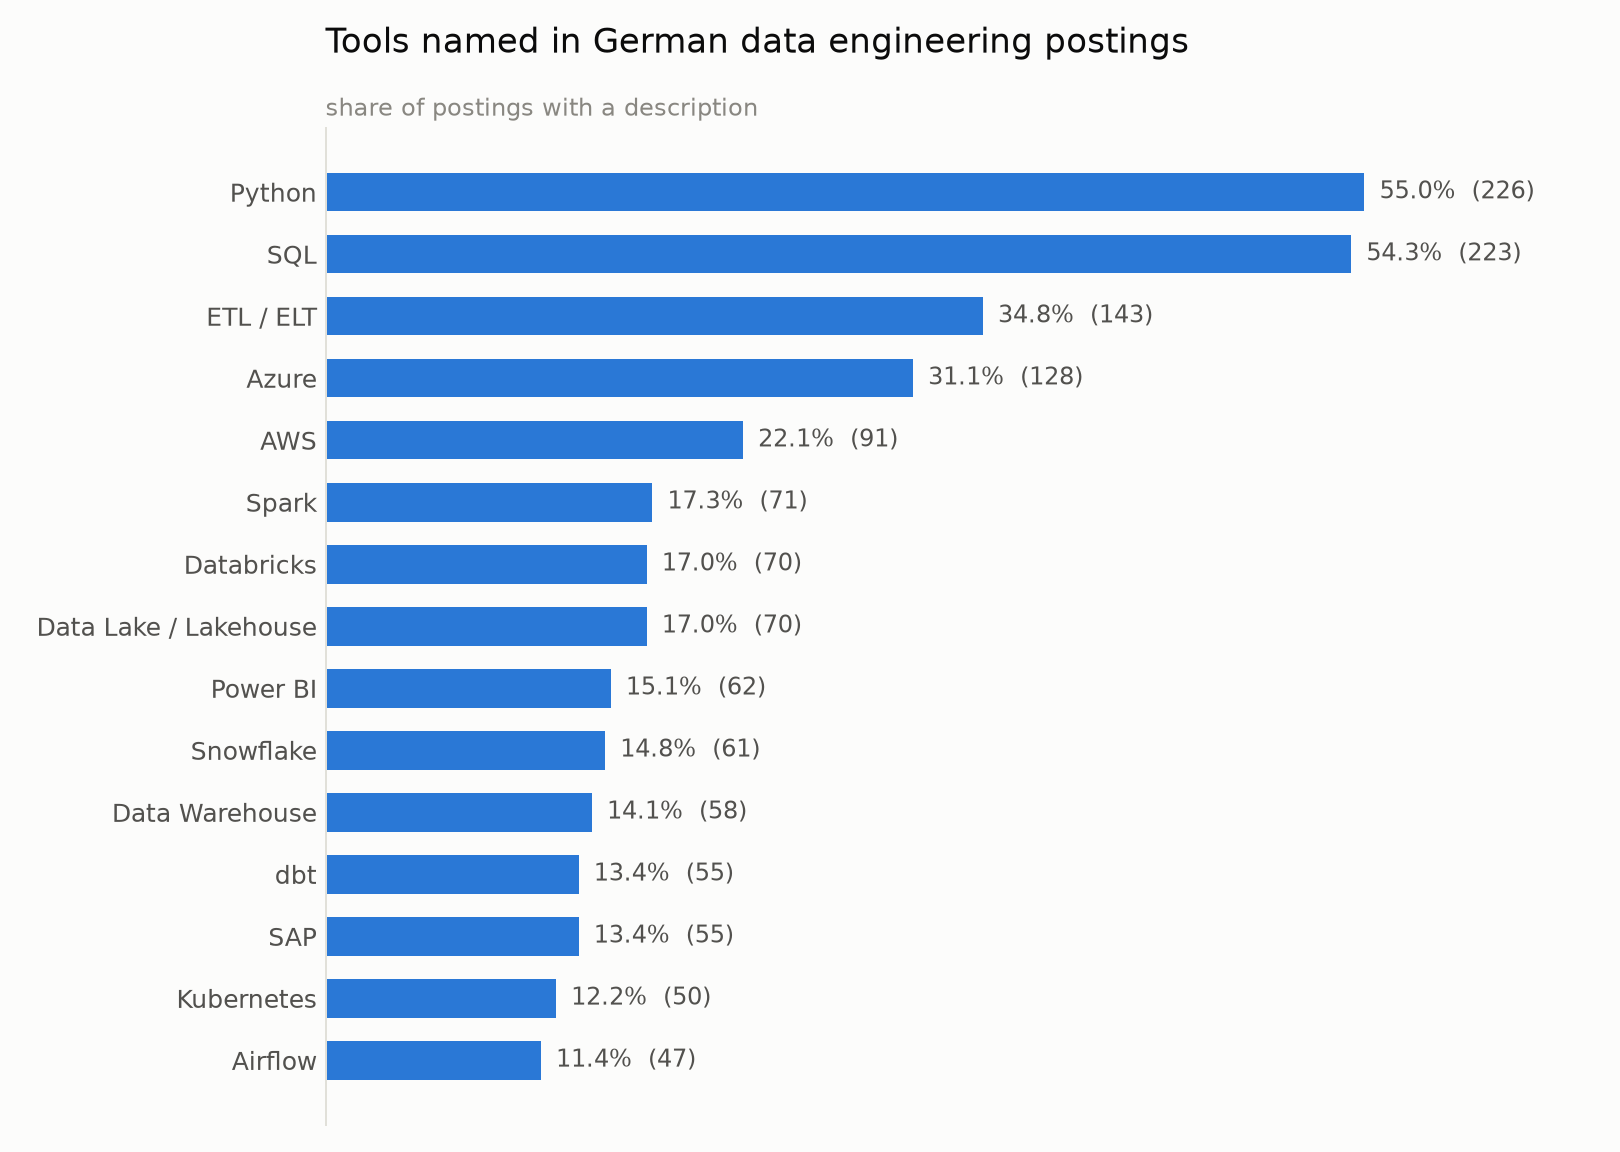
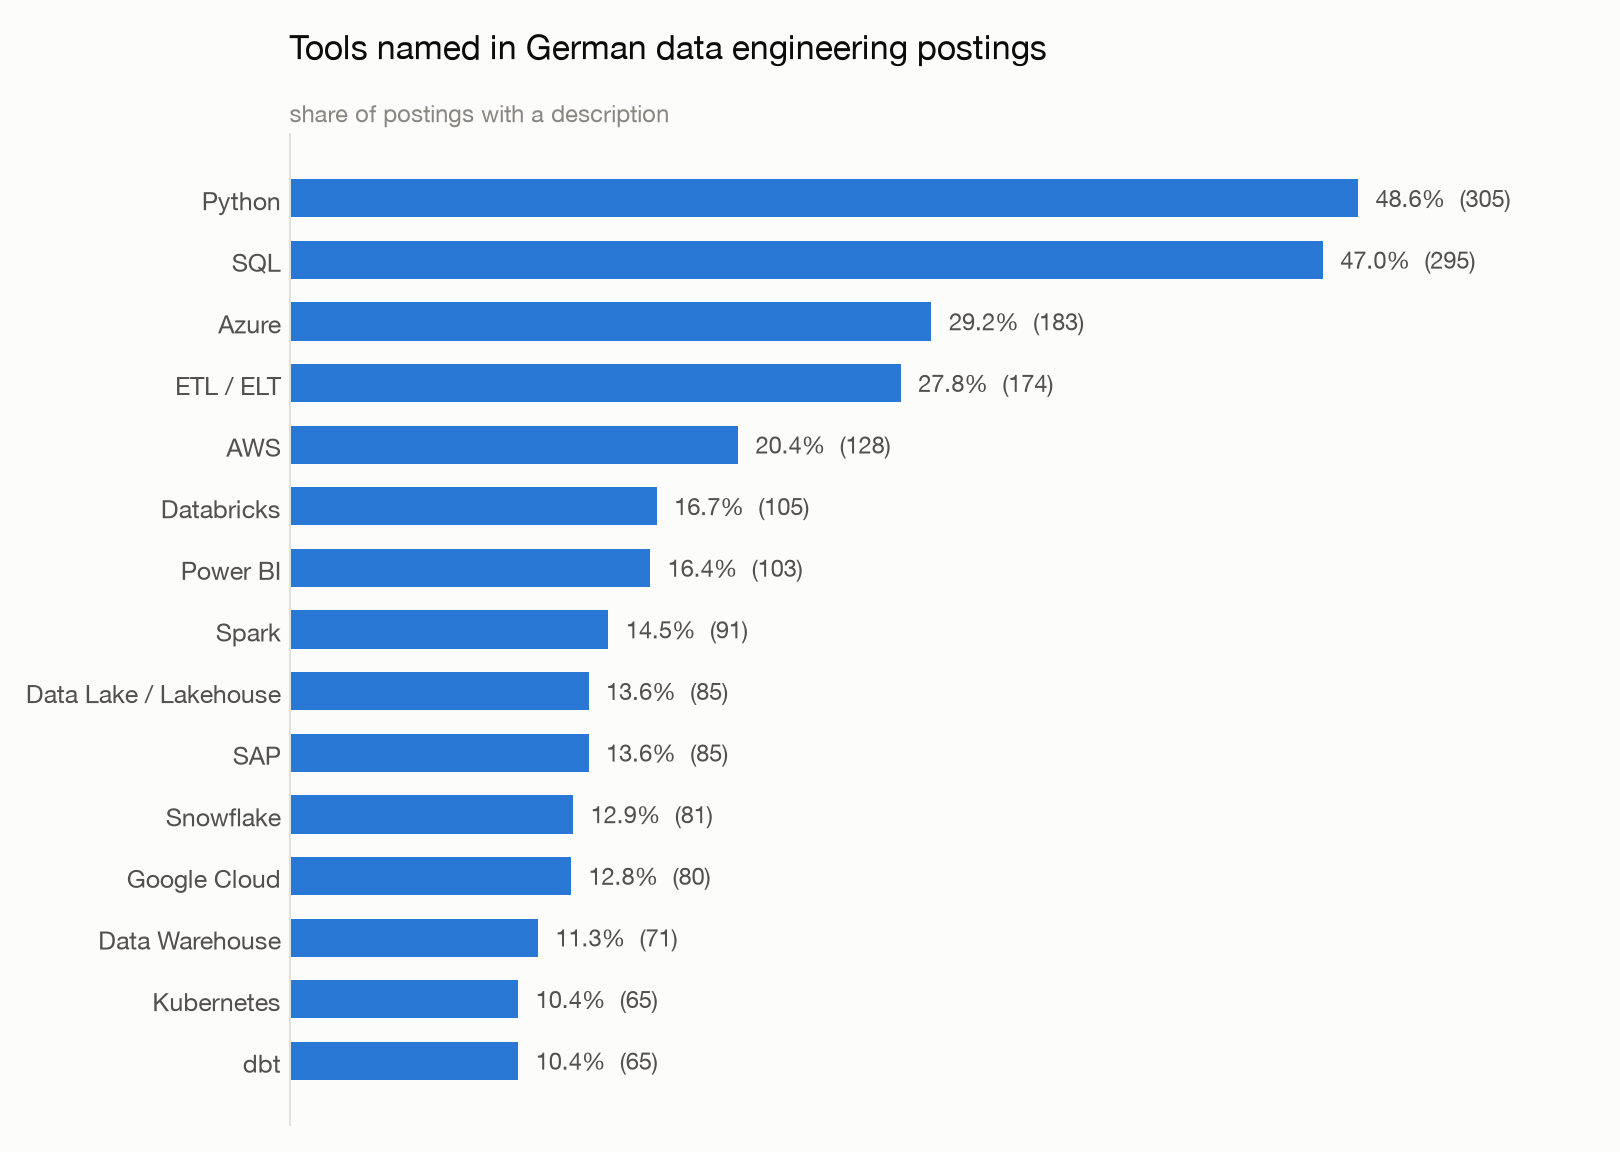
Generate the README's figures from the marts
The README's numbers were hand-typed while the charts beside them were
regenerated daily. They disagreed within a day of the schedule going
live: the prose said Python 49.3% while the image directly above it,
rebuilt that morning, showed 55.0%.

The split this enforces is numbers generated, meaning hand-written.
Everything between the FINDINGS markers comes from the marts. Everything
outside them is prose, now phrased without hard figures -- 'Azure leads
and Google Cloud trails both others' rather than two percentages -- so
it stays true as the market moves. Claims about ordering are the
exception and still need an occasional human look; that is noted in the
script rather than pretended away.

This also settles which dataset is canonical. A laptop run has a larger
sample because it accumulates run dates, but nobody else can reproduce
it. The scheduled run publishes, and the README now says what that
actually measures: postings currently advertised, sampled each morning,
one day per run.

Dropped the top-five tools table: it sat directly above a chart showing
fifteen tools with the same percentages, and the chart is the better of
the two. The generated block now carries what a chart cannot -- sample
sizes, the cloud ratio, the language split.

Also gitignores the desktop app's output folder, which had started
dropping unrelated files into the repository.

Changed region(s): [[0.0, 0.0938, 0.9568, 0.9375], [0.1852, 0.0312, 0.7407, 0.0625]]

diff --git a/analysis/update_readme.py b/analysis/update_readme.py
@@ -1,0 +1,133 @@
+"""Regenerate the README's figures from the marts.
+
+The README is the deliverable, and its numbers were hand-typed while the
+charts beside them were regenerated daily. They disagreed within a day.
+
+The split this enforces: **numbers are generated, meaning is hand-written.**
+Everything between the FINDINGS markers is produced here from the marts.
+Everything outside them is prose a person wrote, and it is deliberately
+phrased without hard figures so it cannot rot the same way. Claims about
+ordering ("Power BI ranks above Spark") are the exception and do need an
+occasional human look -- they are structural rather than numeric, but they
+are not automatically true forever.
+
+Usage:
+    python analysis/update_readme.py
+"""
+
+from __future__ import annotations
+
+import os
+import sys
+from datetime import date
+from pathlib import Path
+
+import psycopg
+
+sys.path.insert(0, str(Path(__file__).resolve().parents[1] / "ingest"))
+from common import log  # noqa: E402
+
+README = Path(__file__).resolve().parents[1] / "README.md"
+START = "<!-- FINDINGS:START -->"
+END = "<!-- FINDINGS:END -->"
+
+CLOUDS = ["azure", "aws", "gcp"]
+
+
+def connect() -> psycopg.Connection:
+    return psycopg.connect(
+        host=os.getenv("PGHOST", "localhost"),
+        port=os.getenv("PGPORT", "5433"),
+        dbname=os.getenv("PGDATABASE", "jobs"),
+        user=os.getenv("PGUSER", "jobs"),
+        password=os.getenv("PGPASSWORD", "jobs"),
+    )
+
+
+def build_block(cur) -> str:
+    cur.execute("""
+        select population, postings, pct_requires_german,
+               pct_english_without_german, requires_german,
+               english_without_german
+        from analytics_marts.mart_language_requirement
+        where population = 'ALL'
+    """)
+    row = cur.fetchone()
+    if row is None:
+        raise SystemExit("mart_language_requirement has no ALL row")
+    _, with_text, pct_german, pct_english, n_german, n_english = row
+
+    cur.execute("select count(*) from analytics_intermediate.int_postings")
+    total_postings = cur.fetchone()[0]
+
+    cur.execute(
+        """
+        select skill_key, display_name, postings, pct_of_postings
+        from analytics_marts.mart_skill_frequency
+        where skill_key = any(%s)
+        order by postings desc
+        """,
+        (CLOUDS,),
+    )
+    clouds = cur.fetchall()
+
+    neither = with_text - n_german - n_english
+
+    lines = [
+        START,
+        "",
+        f"*Generated from the latest pipeline run "
+        f"({date.today().isoformat()}); these figures change when it does.*",
+        "",
+        f"**{total_postings:,} postings** after scope filtering, location "
+        f"validation and deduplication; **{with_text:,}** of them carry a "
+        "description long enough to read requirements from. Every percentage "
+        f"on this page is a share of those {with_text:,}.",
+        "",
+        "### Cloud platforms",
+        "",
+        "| | share of postings |",
+        "| --- | --- |",
+    ]
+    for _, name, _, pct in clouds:
+        lines.append(f"| {name} | {pct}% |")
+
+    if len(clouds) >= 2:
+        lead, second = clouds[0], clouds[1]
+        ratio = float(lead[3]) / float(second[3]) if float(second[3]) else 0
+        lines += [
+            "",
+            f"{lead[1]} appears **{ratio:.1f}×** as often as {second[1]}.",
+        ]
+
+    lines += [
+        "",
+        "### Language requirement",
+        "",
+        f"| requires German | mentions English, no German requirement | "
+        f"neither stated |",
+        "| --- | --- | --- |",
+        f"| **{pct_german}%** | **{pct_english}%** | "
+        f"**{round(100.0 * neither / with_text, 1)}%** |",
+        "",
+        END,
+    ]
+    return "\n".join(lines)
+
+
+def main() -> None:
+    text = README.read_text(encoding="utf-8")
+    if START not in text or END not in text:
+        raise SystemExit(f"README is missing the {START} / {END} markers")
+
+    with connect() as conn, conn.cursor() as cur:
+        block = build_block(cur)
+
+    before = text[: text.index(START)]
+    after = text[text.index(END) + len(END) :]
+    README.write_text(before + block + after, encoding="utf-8")
+    log.info("README figures updated")
+
+
+if __name__ == "__main__":
+    main()

diff --git a/README.md b/README.md
@@ -6,39 +6,55 @@ A data pipeline that answers a question I actually needed answered:
 Not opinion, not a listicle — postings pulled from Germany's official federal
 job database, parsed, and counted.
 
-> Status: end-to-end and running. First findings below; the numbers are a
-> single snapshot and the open questions are listed with them.
+> Runs itself every morning. The figures below are regenerated by that run,
+> so the prose and the charts always come from the same database.
 
 ## Findings
 
-633 postings after scope filtering, location validation and deduplication,
-627 of them carrying a description long enough to read requirements from.
-Numbers below are a snapshot — see [Caveats](#caveats).
+What this measures: postings currently advertised for data engineering roles
+in Germany, sampled by a scheduled run every morning. The figures move as the
+market does, and the daily snapshots under `data/snapshots/` record each run,
+so any number here can be traced back to the run that produced it.
+
+<!-- FINDINGS:START -->
+
+*Generated from the latest pipeline run (2026-09-12); these figures change when it does.*
+
+**633 postings** after scope filtering, location validation and deduplication; **627** of them carry a description long enough to read requirements from. Every percentage on this page is a share of those 627.
+
+### Cloud platforms
+
+| | share of postings |
+| --- | --- |
+| Azure | 29.2% |
+| AWS | 20.4% |
+| Google Cloud | 12.8% |
+
+Azure appears **1.4×** as often as AWS.
+
+### Language requirement
+
+| requires German | mentions English, no German requirement | neither stated |
+| --- | --- | --- |
+| **40.4%** | **31.3%** | **28.4%** |
+
+<!-- FINDINGS:END -->
 
 ### Which tools the market asks for
 
 ![Tools named in German data engineering postings](analysis/charts/skill_frequency.png)
 
-Python (49.3%) and SQL (47.5%) are the floor. The cloud split is the part worth
-reading closely:
+Python and SQL are the floor, which is unsurprising. The cloud split is not:
+Azure leads and Google Cloud trails both others, consistent with DACH
+enterprises being Microsoft shops before they are cloud shops. The ratio
+between the clouds has held across samples of very different size, while the
+absolute percentages moved — so read the ratio as the finding.
 
-| | share of postings |
-| --- | --- |
-| Azure | **28.8%** |
-| AWS | 20.2% |
-| Google Cloud | 13.6% |
-
-Azure leads AWS by roughly **1.4×**. That ratio is the finding, not the
-absolute percentages: an earlier run over a third of this sample produced
-32.4% / 22.0% / 12.8% — different numbers, the same 1.4× gap. Databricks was
-similarly stable across both runs (16.7% then 16.4%).
-
-Two results look distinctly German. **SAP appears in 12.8%** of postings, and
-**Power BI in 16.3%** — ranking above Spark, dbt and Airflow. A US-based
-dataset would not produce that shape. It suggests a large share of what
-Germany labels "data engineering" is Microsoft-stack BI work sitting close to
-SAP systems, which is a different job from the one the title implies
-elsewhere.
+Two results look distinctly German. **SAP** sits in the top fifteen, and
+**Power BI** ranks above Spark, dbt and Airflow. A US-based dataset would not
+produce that shape. It suggests a large share of what Germany labels "data
+engineering" is Microsoft-stack BI work sitting close to SAP systems, which is
+a different job from the one the title implies elsewhere.
 
 Read the percentages as a share of all postings, not as market share between
 clouds: most postings name no cloud at all, so among those that do, Azure's
@@ -48,36 +64,28 @@ lead is wider than the table suggests.
 
 ![How much of the market is gated on German](analysis/charts/language_requirement.png)
 
-**40%** state an explicit German-language requirement. **31%** mention English
-without stating one. The remaining **28%** say nothing about language either
-way — which is not evidence of either, and is shown separately rather than
-folded into the friendlier number.
-
-The federal figure on its own is 41.0%. The second source is too small after
-location validation to report separately, and the mart suppresses per-source
-rows below thirty postings for that reason.
+The third slice matters as much as the first two. A posting that says nothing
+about language is not evidence of either answer, and counting it as
+English-friendly would overstate how open the market is.
 
 ### Caveats
 
 - **The German figure is a floor.** Only explicit competency phrases are
   counted. A posting written in German that states no requirement but expects
   German is invisible to this measure, and there are many.
-- **Percentages moved by 3–7 points between runs.** An earlier, smaller sample
-  was not a random subset — it was the first *n* postings in search order,
-  which over-weighted the most tool-dense search term. Directions held;
-  magnitudes did not. Treat single-point percentages as approximate.
-- **Deduplication turned out to be a minor effect**, and it was audited rather
-  than assumed: `analysis/dedup_audit.sql` splits the funnel. The role filter
-  removes 1,596 rows; deduplication merges 32. The large reduction is the
-  scope filter doing its job, since the API's search is fuzzy and returns
-  loosely related postings.
+- **One day per run.** A scheduled run builds its database from scratch, so
+  each snapshot is that morning's postings rather than an accumulating
+  history. The series across `data/snapshots/` is where trends will live.
+- **Sampling is random but partial.** Descriptions are fetched for a capped
+  number of postings per run, shuffled first so the cap is a throttle rather
+  than a filter. An earlier version truncated an ordered list and skewed every
+  percentage upward; see the commit history.
+- **Deduplication is a minor effect, and was audited rather than assumed.**
+  `analysis/dedup_audit.sql` splits the funnel: the role filter removes far
+  more rows than deduplication merges.
 - **The second source is DACH/EU-wide, not German**, and states no country.
-  Across its full feed, 224 postings resolve as foreign, 213 as German and 157
-  as unknown. Locations are validated against German place names taken from
-  the federal database itself, and only verified-German rows are kept — twelve
-  of them. Everything here is the German market by construction, not by
-  assumption.
-- **One snapshot.** Two run dates are now stored, which is not yet a trend.
+  Locations are validated against German place names taken from the federal
+  database itself, and only verified-German rows are kept.
 
 ## Why this project
 
